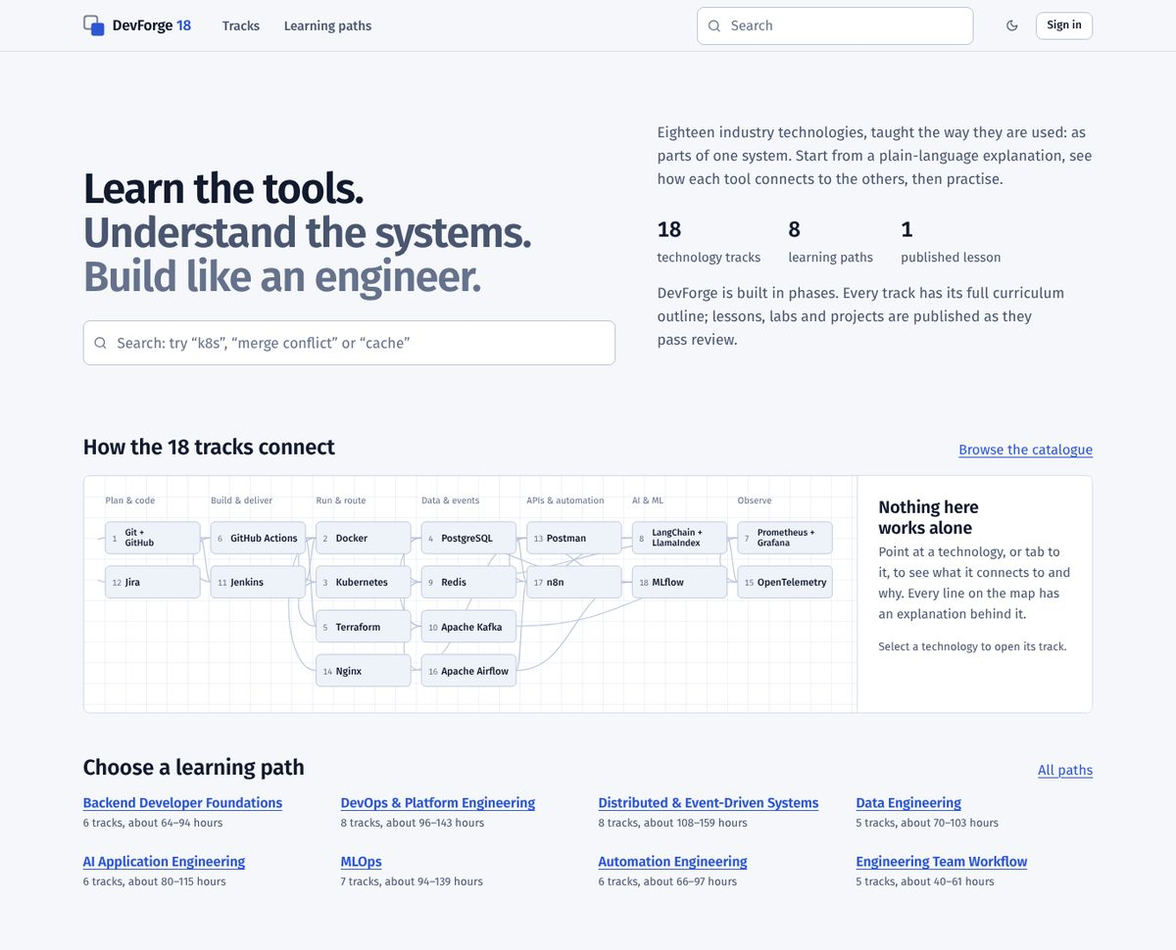
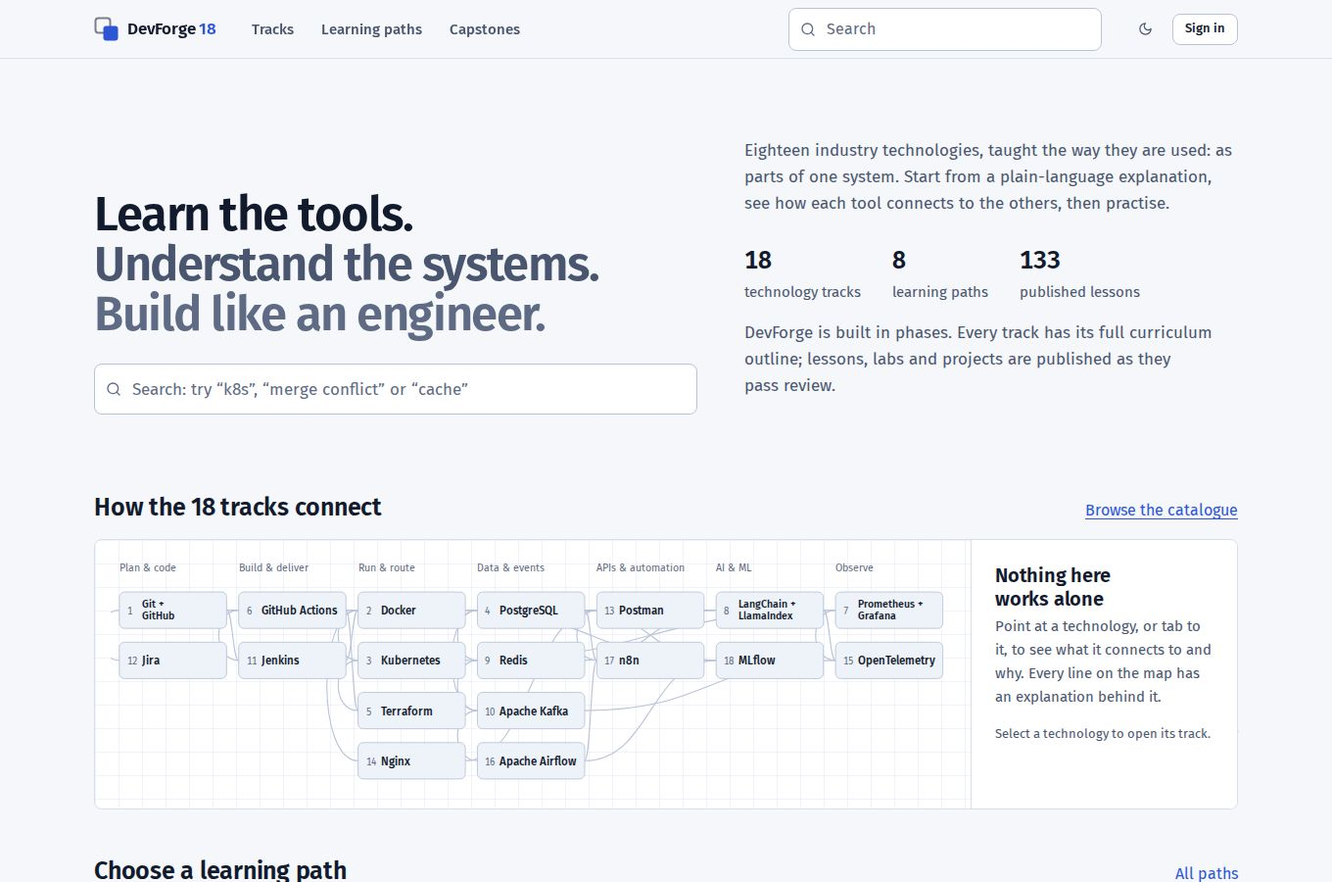
Release checklist: certificate page in the accessibility audit, crawler on the new limits, README/CHANGELOG for v1.0
- e2e: the certificate verification page is audited (34 pages, 68 audits,
  all pass); the harness exposes its database for seeding evidence the way
  the API tests do; the certificate is issued by the real API.
- e2e/internal-links.test.ts raises the two API limits through config
  (apiRateLimits) instead of replacing the limiters.
- README: v1.0 status, features with counts, known limitations (single
  instance, shared networks, editor tested against a fake, screen-reader pass
  pending), refreshed screenshots plus simulation and architecture shots
  (scripts/readme-screenshots.ts).
- CHANGELOG.md with the 1.0.0 entry.
- docs: Orca quick start and two checklist items (cohorts/reviews,
  certificate) in accessibility.md; dead-link crawler in testing.md.

Local: npm test 575 pass / 0 fail (159 Docker-gated skipped), test:e2e 126/126,
test:upgrade 191/191.

diff --git a/e2e/accessibility.test.ts b/e2e/accessibility.test.ts
@@ -66,6 +66,7 @@ const PAGES: AuditedPage[] = [
   { name: "review queue", path: "/reviews", ready: "table", signedIn: "faculty", setup: async (page) => (await teacherWithSubmission(page), "/reviews") },
   { name: "review form with the rubric", path: "/reviews", ready: "fieldset.rubric-row", signedIn: "faculty", setup: (page) => teacherWithSubmission(page).then((r) => `/reviews/submission/${r.submissionId}`) },
   { name: "public portfolio", path: "/", ready: "h1", setup: publicPortfolio },
+  { name: "certificate verification", path: "/", ready: "h1", setup: issuedCertificate },
   { name: "administration", path: "/admin", ready: "table", signedIn: "admin" },
   { name: "content editor", path: "/content-editor", ready: "h1", signedIn: "faculty" },
   { name: "home at phone width, menu open", path: "/", ready: ".map-list", mobile: true, prepare: openMenu },
@@ -136,6 +137,32 @@ async function publicPortfolio(): Promise<string> {
   await s.post("/api/me/portfolio", { isPublic: true, slug, headline: "Learning DevOps" }, "PUT");
   await s.dispose();
   return `/portfolio/${slug}`;
+}
+
+/**
+ * A student earns the Kubernetes certificate; the audit visits its public verification page signed out.
+ * Passing the quiz and verifying both labs through the browser would take minutes, so that evidence is seeded in
+ * the database exactly as server/test/api-institution.test.ts does; the certificate itself is issued by the real API.
+ */
+async function issuedCertificate(): Promise<string> {
+  accounts += 1;
+  const ctx = await playwrightRequest.newContext({ baseURL: h.url, extraHTTPHeaders: { "X-DevForge-CSRF": "1", Origin: h.url } });
+  const reg = await ctx.post("/api/auth/register", { data: { email: `axe-certified-${accounts}@example.com`, displayName: "Certified Learner", password: "correct horse battery staple 42" } });
+  assert.equal(reg.status(), 201);
+  const userId = ((await reg.json()) as { user: { id: string } }).user.id;
+  const status = (await (await ctx.get("/api/me/certificates")).json()) as { tracks: { track: string; labs: { id: string }[] }[] };
+  const k8s = status.tracks.find((t) => t.track === "kubernetes");
+  assert.ok(k8s, "the Kubernetes track offers a certificate");
+  const now = new Date().toISOString();
+  h.db.prepare("INSERT INTO quiz_attempts (user_id, quiz_id, track_slug, score, passed, attempted_at) VALUES (?, 'kubernetes-quiz', 'kubernetes', 0.9, 1, ?)").run(userId, now);
+  for (const lab of k8s.labs) {
+    h.db.prepare("INSERT INTO lab_progress (user_id, lab_id, track_slug, evidence, completed_at) VALUES (?, ?, 'kubernetes', 'verified', ?)").run(userId, lab.id, now);
+  }
+  const issued = await ctx.post("/api/me/certificates/kubernetes");
+  assert.equal(issued.status(), 201, await issued.text());
+  const id = ((await issued.json()) as { certificate: { id: string } }).certificate.id;
+  await ctx.dispose();
+  return `/certificates/${id}`;
 }
 
 /** Waits for the page's own content, not just the app shell: the route's heading and, when given, its data. */

diff --git a/e2e/harness.ts b/e2e/harness.ts
@@ -7,9 +7,8 @@ import type { AppConfig } from "../server/src/config.ts";
 import { ContentStore } from "../server/src/content/store.ts";
 import { hashPassword } from "../server/src/auth/password.ts";
 import { insertUser, type Role } from "../server/src/auth/users.ts";
-import { migrate, openDatabase } from "../server/src/db/database.ts";
+import { migrate, openDatabase, type Db } from "../server/src/db/database.ts";
 import { silentLogger } from "../server/src/observability/logger.ts";
-import type { Limiters } from "../server/src/routes/deps.ts";
 
 const root = join(import.meta.dirname, "..");
 
@@ -19,14 +18,13 @@ export interface Harness {
   newPage: (opts?: { mobile?: boolean; colorScheme?: "light" | "dark" }) => Promise<{ page: Page; context: BrowserContext; problems: string[] }>;
   /** Create an account directly in the database — the only way to get a faculty or admin account, as in production. */
   createUser: (user: { email: string; name: string; password: string; role: Role }) => Promise<void>;
+  /** The in-memory database, for seeding state that only long real flows produce (as the API tests do). */
+  db: Db;
   close: () => Promise<void>;
 }
 
-/**
- * Runs the real server (built frontend + compiled content, in-memory DB) and a headless Chromium.
- * `options.limiters` replaces the production rate limiters, for a test that is deliberately one very busy client.
- */
-export async function startHarness(overrides: Partial<AppConfig> = {}, options: { limiters?: Limiters } = {}): Promise<Harness> {
+/** Runs the real server (built frontend + compiled content, in-memory DB) and a headless Chromium. */
+export async function startHarness(overrides: Partial<AppConfig> = {}): Promise<Harness> {
   // Bind the port first so the app is created with the exact origin the browser will send.
   let app: App | undefined;
   const server = createServer((req, res) => {
@@ -56,7 +54,7 @@ export async function startHarness(overrides: Partial<AppConfig> = {}, options: 
   };
   const db = openDatabase(":memory:");
   migrate(db);
-  app = createApp({ config, db, content: ContentStore.fromFile(config.contentPath), logger: silentLogger, ...(options.limiters ? { limiters: options.limiters } : {}) });
+  app = createApp({ config, db, content: ContentStore.fromFile(config.contentPath), logger: silentLogger });
   const browser = await chromium.launch();
 
   return {
@@ -89,6 +87,7 @@ export async function startHarness(overrides: Partial<AppConfig> = {}, options: 
       });
       return { page, context, problems };
     },
+    db,
     createUser: async ({ email, name, password, role }) => {
       insertUser(db, { email, displayName: name, passwordHash: await hashPassword(password, config.passwordHashLogN), role });
     },

diff --git a/scripts/readme-screenshots.ts b/scripts/readme-screenshots.ts
@@ -1,0 +1,45 @@
+/**
+ * Regenerates the README screenshots in docs/screenshots/ from the built app.
+ *
+ *   npm run build && node --disable-warning=ExperimentalWarning scripts/readme-screenshots.ts
+ *
+ * Uses the e2e harness (in-memory database, a free port, headless Chromium). Each shot waits for the page's own
+ * heading and for the network to go quiet, then for animations to finish, so it shows the final state.
+ */
+import { join } from "node:path";
+import type { Page } from "playwright";
+import { startHarness } from "../e2e/harness.ts";
+
+const out = join(import.meta.dirname, "..", "docs", "screenshots");
+
+const SHOTS: { file: string; path: string; ready: string; colorScheme?: "light" | "dark"; mobile?: boolean; fullPage?: boolean }[] = [
+  { file: "home-dark.jpg", path: "/", ready: "main h1" },
+  { file: "home-light.jpg", path: "/", ready: "main h1", colorScheme: "light" },
+  { file: "track-page.jpg", path: "/tracks/docker", ready: "main h1" },
+  { file: "lesson.jpg", path: "/tracks/docker/lessons/docker-images-vs-containers", ready: "main h1" },
+  { file: "mobile.jpg", path: "/", ready: "main h1", mobile: true },
+  { file: "simulation.jpg", path: "/tracks/kubernetes/simulations/kubernetes-reconciliation", ready: "main h1" },
+  { file: "architecture.jpg", path: "/architecture", ready: "main h1" },
+];
+
+async function settle(page: Page, ready: string): Promise<void> {
+  await page.locator(ready).first().waitFor();
+  await page.waitForLoadState("networkidle");
+  await page.evaluate(() => Promise.all(document.getAnimations().map((a) => a.finished.catch(() => undefined))));
+  if (await page.getByRole("heading", { name: "Page not found" }).count()) throw new Error(`${page.url()} is a not-found page`);
+}
+
+const h = await startHarness();
+try {
+  for (const shot of SHOTS) {
+    const { page, context, problems } = await h.newPage({ colorScheme: shot.colorScheme ?? "dark", mobile: shot.mobile ?? false });
+    await page.goto(shot.path);
+    await settle(page, shot.ready);
+    if (problems.length) throw new Error(`${shot.path}: ${problems.join("; ")}`);
+    await page.screenshot({ path: join(out, shot.file), type: "jpeg", quality: 80, fullPage: shot.fullPage ?? false });
+    console.log(`docs/screenshots/${shot.file}  ${shot.path}`);
+    await context.close();
+  }
+} finally {
+  await h.close();
+}

diff --git a/e2e/internal-links.test.ts b/e2e/internal-links.test.ts
@@ -22,8 +22,6 @@ import { readFileSync } from "node:fs";
 import { join } from "node:path";
 import { after, before, describe, it } from "node:test";
 import type { APIRequestContext, BrowserContext, Page } from "playwright";
-import { defaultLimiters } from "../server/src/app.ts";
-import { FixedWindowLimiter } from "../server/src/http/rate-limit.ts";
 import { startHarness, type Harness } from "./harness.ts";
 
 const PASSWORD = "copper meadow signal 7";
@@ -56,10 +54,11 @@ interface Target {
 
 let h: Harness;
 before(async () => {
-  // The crawler is one client loading ~400 pages (several API calls each) in well under a minute, far past the
-  // per-IP API guard (1200 a minute, ADR 0004), which would turn pages into "Too many requests" error states.
-  // Only that guard is raised; rate limiting has its own tests.
-  h = await startHarness({}, { limiters: { ...defaultLimiters(), api: new FixedWindowLimiter(1_000_000, 60_000) } });
+  // The crawler is one signed-in client loading ~400 pages (several API calls each) in well under a minute, far
+  // past the API limits per user (600 a minute) and per address (6,000), which would turn pages into "Too many
+  // requests" error states. Only those two limits are raised; sign-in limits keep their production values, and
+  // rate limiting has its own tests (server/test/rate-limits.test.ts).
+  h = await startHarness({ apiRateLimits: { perIpPerMinute: 1_000_000, perUserPerMinute: 1_000_000 } });
 });
 after(() => h.close());
 

diff --git a/README.md b/README.md
@@ -4,13 +4,19 @@
 
 DevForge 18 is an interactive developer engineering academy. It teaches 18 industry technology tracks — from Git and Docker to Kafka, OpenTelemetry and MLflow — the way they are actually used: as parts of one system. Every track starts with a plain-language explanation, shows where the tool sits in an architecture and how it connects to the others, and leads into lessons with graded self-checks, labs and projects.
 
-> **Project status: Phase 1 in progress.** The platform, all 18 track curricula and 8 learning paths are in place, and 80 lessons are published across all 18 tracks — beginner lessons in every track, and intermediate and advanced lessons for the Path 1 tracks (Learning Paths 1 and 2 — Git, PostgreSQL, Postman, Redis, Nginx, Docker, GitHub Actions, Jenkins, Terraform, Kubernetes, Prometheus + Grafana, OpenTelemetry — plus Kafka, Airflow, MLflow, LangChain + LlamaIndex, n8n and Jira). Every command in every published lesson is run by the test suite against the real tool, and CI confirms the output matches; the two Jira lessons about the hosted Jira service are checked against Atlassian's documentation instead, and say so. Every track has two labs; projects and further intermediate and advanced lessons are still being written, and the app labels everything that is planned rather than available. See [`IMPLEMENTATION_STATUS.md`](IMPLEMENTATION_STATUS.md) for exactly what works today.
+> **Project status: v1.0.** All 18 tracks are complete: 133 lessons (beginner to advanced), 18 simulations, 37 labs, 18 quizzes, 54 mini-projects, 7 capstones, 17 integrations between tracks and 10 reference architectures, plus cohorts, reviews, portfolios and certificates for colleges. Every command in 131 of the 133 lessons is run by the test suite against the real tool and CI confirms the output; the two lessons about the hosted Jira service are checked against Atlassian's documentation instead, and say so. Simulations are labelled as simulations. See [`IMPLEMENTATION_STATUS.md`](IMPLEMENTATION_STATUS.md) for the evidence and [`CHANGELOG.md`](CHANGELOG.md) for the release notes.
 
 ![DevForge 18 home page with the interactive system map](docs/screenshots/home-dark.jpg)
 
 | Track page | Lesson reader | Mobile |
 |---|---|---|
 | ![Docker track page](docs/screenshots/track-page.jpg) | ![Lesson with objectives](docs/screenshots/lesson.jpg) | ![Mobile home](docs/screenshots/mobile.jpg) |
+
+| Simulation (labelled as one) | Architecture studio |
+|---|---|
+| ![Kubernetes reconciliation loop simulation](docs/screenshots/simulation.jpg) | ![Reference architectures](docs/screenshots/architecture.jpg) |
+
+Screenshots are regenerated from the built app with `node --disable-warning=ExperimentalWarning scripts/readme-screenshots.ts` (last run 2026-11-28).
 
 ## Contents
 
@@ -33,18 +39,21 @@ DevForge 18 is an interactive developer engineering academy. It teaches 18 indus
 | Feature | Status |
 |---|---|
 | Browse all 18 tracks: explanation, problem solved, what it is *not*, architecture position, curriculum by level, labs, projects, official resources | Working |
-| Interactive system map showing how the tracks connect, with an explanation behind every connection | Working |
+| Interactive system map showing how the tracks connect, with an explanation behind every connection; a relationship graph and 17 integration pages (how two tools work together, with practice items) | Working |
 | 8 learning paths with ordered modules, prerequisites, alternate routes and time estimates | Working |
 | Search across tracks, curriculum topics, lessons and paths, with typo tolerance and abbreviations (`k8s`, `pg`, `otel`) | Working |
-| Lesson reader with objectives, table of contents, copyable code blocks, expected output and a server-graded self-check | Working (80 lessons; their commands are run by the test suite and in CI) |
-| Figures in every lesson, and step-through diagrams (Previous/Next, arrow keys, Play) for processes in every track with lessons; both themes, reduced motion respected | Working (81 figures, 22 of them step-throughs) |
-| Interactive simulations with challenges, verified by the server and saved to progress: Git commit graph, Kubernetes reconciliation loop, Prometheus scrape and rate, OpenTelemetry trace waterfall, Kafka consumer groups, Airflow scheduler timeline, MLflow experiment explorer, a RAG pipeline, an n8n workflow executor, a Jira sprint board, Docker's layer cache, PostgreSQL's query planner, Terraform's plan diff, a GitHub Actions run visualiser, a Redis cache under load, Nginx's location matcher, a Postman-style request builder, a Jenkins build queue | Working (all 18 tracks) |
-| Accounts, sign-in, progress tracking (a lesson completes only when its self-check is passed), bookmarks, dashboard | Working |
-| Roles (student, faculty, admin), admin user management with an audit log, faculty aggregate statistics | API working; admin/faculty screens not built yet |
-| Dark and light themes, keyboard navigation, mobile layout | Working |
+| Lesson reader with objectives, table of contents, copyable code blocks, expected output and a server-graded self-check | Working (133 lessons: 54 beginner, 42 intermediate, 37 advanced; 131 executed in CI, 2 Jira lessons checked against documentation) |
+| Figures in every lesson, and step-through diagrams (Previous/Next, arrow keys, Play); both themes, reduced motion respected | Working (134 figures in 133 lessons, 22 lessons with step-throughs) |
+| Interactive simulations with challenges, verified by the server and saved to progress, one per track, each labelled as a simulation and saying what it simplifies | Working (18) |
+| Labs: local labs with a check script, simulation labs with server-verified challenges, and a read-through lab graded on the server; progress records whether completion was checked or self-reported | Working (37) |
+| Quizzes: one per track mixing all levels, six question types, graded on the server (answers never sent before grading), attempts saved | Working (18 quizzes, 230 questions) |
+| Mini-projects with user stories, acceptance criteria, rubric, starter files, progressive hints and a faculty-only solution; an acceptance check that fails on the starter and passes on the solution, run in CI | Working (54, three per track) |
+| Capstones and the architecture studio: 7 capstones (A–G) and 10 reference architectures where learners write decision records | Working |
 | Who uses each tool and why: two sourced case studies per track, every claim with a verbatim quote, its source and the date checked; alternatives with when to choose them and their licences | Working (36 case studies, 89 alternatives) |
-| Labs: two per track — local labs with a check script, simulation labs with server-verified challenges, and a read-through lab graded on the server; progress records whether completion was checked or self-reported | Working (36 labs) |
-| Capstone projects, quizzes, architecture studio, cohorts | Planned (see roadmap) |
+| Accounts, sign-in, progress tracking (a lesson completes only when its self-check is passed), bookmarks, dashboard | Working |
+| For colleges: cohorts with join codes, assignments with due dates, submissions reviewed against rubrics, opt-in public portfolios, certificates anyone can verify, data export and account deletion | Working |
+| Roles (student, faculty, admin), admin screens (roles, disable/enable, audit log), and a content editor for faculty that opens GitHub pull requests | Working (the editor has been tested against a fake GitHub API only; see [Known limitations](#known-limitations)) |
+| Dark and light themes, keyboard navigation, mobile layout; automated accessibility audit of every page type | Working (68 audits; a manual screen-reader pass is pending) |
 
 ## The 18 tracks
 
@@ -234,10 +243,12 @@ Found a vulnerability? Please report it privately to the maintainers rather than
 
 ## Known limitations
 
-- 133 lessons are published (131 executed in CI, 2 docs-checked Jira lessons), 37 labs, a simulation and a quiz in every track, 54 mini-projects with executable acceptance checks, capstones A–G, 17 integrations and 10 reference architectures.
-- External resource links were all checked and reviewed on 2026-11-25. The weekly *Link check* workflow reports reachability; a person re-confirms each page before its date is updated.
-- Admin screens (users, roles, disabling accounts, audit log), faculty screens (cohorts, assignments, reviews against rubrics) and the content editor exist. The content editor has been tested only against a local fake of the GitHub API (see [ADR 0011](docs/adr/0011-cms-pull-requests.md)); try one pull request on a scratch repository first.
-- Rate limits are kept in memory, so they apply per server process, unless `REDIS_URL` points to a shared Redis. See [ADR 0004](docs/adr/0004-auth-sessions.md) and [ADR 0010](docs/adr/0010-shared-rate-limits-redis.md).
+- **One app instance.** v1.0 stores everything in one SQLite file and must run as a single app process ([ADR 0002](docs/adr/0002-database.md), [deployment guide](docs/deployment.md#database-one-app-instance)). Scale it up, not out; one process handled about 300 concurrent active users in the load test before latency rose.
+- **Shared networks.** API requests are limited to 6,000 a minute per address and 600 per signed-in user by default, which fits about 60 students behind one NAT address; raise the per-address limit for larger groups ([sizing guidance](docs/deployment.md#rate-limits)).
+- **Content editor:** tested against a local fake of the GitHub API only ([ADR 0011](docs/adr/0011-cms-pull-requests.md)); try one pull request on a scratch repository before real use.
+- **Screen readers:** the automated accessibility audit covers every page type, but the manual screen-reader pass ([checklist](docs/accessibility.md#manual-screen-reader-pass-to-do-owner)) is still pending.
+- **External links** are checked weekly by the *Link check* workflow; four sites refuse automated checks and were confirmed by hand (`content/link-check-exceptions.yaml`, re-check every 90 days).
+- Jira lessons cannot run commands against the hosted service; they are checked against Atlassian's documentation and taught with a labelled simulation.
 - The full list, with workarounds, is in [`IMPLEMENTATION_STATUS.md`](IMPLEMENTATION_STATUS.md#known-issues-and-limitations).
 
 ## Licence

diff --git a/CHANGELOG.md b/CHANGELOG.md
@@ -1,0 +1,42 @@
+# Changelog
+
+All notable changes to DevForge 18. Dates are UTC. The project follows [Semantic Versioning](https://semver.org/); the content (`content/`) is versioned per item with `content_version`.
+
+## [1.0.0] — 2026-11-28
+
+The first release: all 18 tracks complete, with college features. Evidence for every item below is in [`IMPLEMENTATION_STATUS.md`](IMPLEMENTATION_STATUS.md) (section "v1.0 release checklist").
+
+### Learning content
+
+- **18 tracks** (Git and GitHub, Docker, Kubernetes, PostgreSQL, Terraform, GitHub Actions, Prometheus and Grafana, LangChain and LlamaIndex, Redis, Apache Kafka, Jenkins, Jira, Postman, Nginx, OpenTelemetry, Apache Airflow, n8n, MLflow), each with a plain-language explanation, its place in a system architecture, a curriculum by level and official resources.
+- **133 lessons** (54 beginner, 42 intermediate, 37 advanced) with objectives, figures, expected output and a server-graded self-check. The commands in 131 lessons are run against the real tools by the test suite and in CI, and their output is compared; the 2 lessons about the hosted Jira service are checked against Atlassian's documentation and say so.
+- **134 figures**, 22 lessons with step-through diagrams.
+- **18 simulations**, one per track, with challenges verified by replaying the learner's actions on the server; each is labelled as a simulation and states what it simplifies.
+- **37 labs**: local labs with check scripts, simulation labs and a read-through lab graded on the server.
+- **18 quizzes** (230 questions, six question types) graded on the server.
+- **54 mini-projects** with stories, acceptance criteria, rubrics, starter files, hints and a faculty-only solution; every acceptance check fails on the starter and passes on the solution in CI.
+- **7 capstones** (A–G), **17 integrations** between tracks, **10 reference architectures** with learner decision records.
+- **36 case studies** (every claim with a verbatim quote, its source and the date checked) and **89 alternatives** with licences.
+- **8 learning paths**, search with typo tolerance, an interactive system map and a relationship graph.
+
+### Platform
+
+- Accounts and sessions (scrypt, hashed session tokens, CSRF defence), roles (student, faculty, admin), progress, bookmarks, dashboard.
+- **For colleges:** cohorts with join codes, assignments with due dates, submissions reviewed against rubrics, opt-in public portfolios, certificates that anyone can verify, data export and account deletion.
+- **Admin screens** (roles, disable/enable, audit log) and a **content editor** for faculty that opens GitHub pull requests.
+- **Rate limits for shared networks:** per signed-in user (600 requests a minute, the main abuse guard) and per address (6,000 a minute, sized for a classroom behind NAT), both configurable; optional shared counters in Redis.
+- OpenTelemetry tracing of DevForge itself (optional), Prometheus metrics, structured logs.
+- Docker Compose deployment behind Nginx, read-only containers, images pinned by digest; backups with an integrity check.
+- Dark and light themes, keyboard navigation, mobile layout, reduced motion; a strict Content Security Policy unchanged since the first commit.
+
+### Verification
+
+- Unit, API and browser tests; an automated accessibility audit (axe) of every page type in both colour schemes; a crawler that fails on any dead internal link; an upgrade test from two older versions and a backup-and-restore test; a Compose and Nginx smoke test; a k6 load test (nightly).
+- An authorization review of every endpoint added since the first version, with tests that another user cannot read or change someone else's data ([docs/security.md](docs/security.md#endpoint-authorization-review-v10-2026-11-28)).
+
+### Known limitations
+
+- One app instance per database (SQLite); needing more than one app server is the trigger for the PostgreSQL adapter ([ADR 0002](docs/adr/0002-database.md)).
+- The content editor has been tested against a local fake of the GitHub API only.
+- The manual screen-reader pass has not been done yet.
+- See [README, "Known limitations"](README.md#known-limitations).

diff --git a/docs/accessibility.md b/docs/accessibility.md
@@ -9,7 +9,7 @@ DevForge 18 aims for WCAG 2.1 level AA. This page records what is tested automat
 - **Rules:** every axe rule tagged `wcag2a`, `wcag2aa`, `wcag21a` or `wcag21aa`. No rule is disabled and no element is excluded; any future exclusion must be added to `EXCLUSIONS` in the test with its reason, and listed here.
 - **Colour schemes:** every page is audited twice, in the dark scheme (the default) and the light scheme (`prefers-color-scheme: light`); the test also checks that the page really switched (`<html data-theme>`).
 - **When:** after the page's own data has loaded (its heading and a page-specific element are visible, the network is idle, and entrance animations have finished, so contrast is measured on final colours).
-- **Pages (33, so 66 audits):**
+- **Pages (34, so 68 audits):**
 
 | Page | URL |
 |---|---|
@@ -37,8 +37,7 @@ DevForge 18 aims for WCAG 2.1 level AA. This page records what is tested automat
 | Public portfolio | `/portfolio/:slug` |
 | Administration (admin) | `/admin` |
 | Content editor (faculty) | `/content-editor` |
-
-Not audited automatically yet: the certificate verification page (`/certificates/:id`) — creating one needs a learner who passed a quiz and verified labs through the real flows; its content is covered by API tests and it uses the same notice, heading and list components as the audited pages. Include it in the manual pass.
+| Certificate verification (signed out; the certificate is issued by the real API after the quiz and lab evidence is seeded, as in the API tests) | `/certificates/:id` |
 
 ### Results
 
@@ -65,7 +64,15 @@ Automated tools find only part of the WCAG failures: they cannot judge whether a
 
 **Not done yet.** This audit was automated only; nobody has used DevForge with a screen reader. Do it before institution-wide use, record the date, the screen reader and browser versions, and any problems found (as issues), here.
 
-Suggested setups: NVDA with Firefox or Chrome on Windows; VoiceOver with Safari on macOS and on iOS; TalkBack with Chrome on Android. Test in both colour schemes and at 200 % and 400 % zoom.
+Suggested setups: Orca with Firefox on Linux (the owner's setup; steps below); NVDA with Firefox or Chrome on Windows; VoiceOver with Safari on macOS and on iOS; TalkBack with Chrome on Android. Test in both colour schemes and at 200 % and 400 % zoom.
+
+### Orca on Linux, quick start
+
+1. Orca is installed on most GNOME-based desktops (`orca --version`; otherwise `sudo apt install orca`). Run `orca -s` once and choose the **Laptop** keyboard layout: the Orca key is then **Caps Lock** (Desktop layout: **Insert**).
+2. Start it with `orca &` (GNOME: Super+Alt+S toggles it); stop it with `pkill orca`.
+3. Start DevForge (`npm run build && npm start`, or on another port with `PORT` and `PUBLIC_ORIGIN`) and open it in Firefox.
+4. Keys (from the Orca help, checked 2026-11-28): Orca+H learn mode (Esc leaves); Tab/Shift+Tab controls; H/Shift+H headings, 1–6 a heading level, Alt+Shift+H list of headings; M landmarks (Alt+Shift+M list); K links (Alt+Shift+K list); F form fields; B buttons; T tables; Orca+A switches browse mode and focus mode; Say All is Orca+; (Laptop) or KP Plus (Desktop). The help pages do not list a key to stop speech; Ctrl usually stops it.
+5. For each item below write ✅ or ❌ with one line on what was announced, and record the Orca and Firefox versions and the date here.
 
 ### Checklist
 
@@ -92,6 +99,8 @@ Pages
 - [ ] Search: results count and results are announced after typing.
 - [ ] Sign-in and registration: every field is labelled; errors are announced and linked to their field; the password rules are read before submitting.
 - [ ] Dashboard: progress figures are announced as text, not only as bars.
+- [ ] Cohorts and reviews: the join-code field is labelled; the cohort's learner table has headers; each rubric criterion is a group whose options are announced with their level.
+- [ ] Certificate page: the holder, track, issue date and status (valid or revoked) are read in order; the criteria list makes sense without the visual layout.
 
 ## Keeping it accessible
 

diff --git a/docs/testing.md b/docs/testing.md
@@ -15,7 +15,8 @@
 | Shared rate limits | `server/test/rate-limit-redis.test.ts` | `npm test` | RESP client (fake TCP server: AUTH/SELECT, errors, timeouts), fail-open decision logic; against a real Redis: atomic counting under concurrency, expiry, two DevForge instances enforcing one limit, and an outage (fallback, metrics, recovery). Redis comes from `DEVFORGE_TEST_REDIS_URL` (CI's verify job), a Redis 7.4 container (`DEVFORGE_DOCKER_TEST=1`) or a local `redis-server`; otherwise skipped with the reason |
 | Deployment | `scripts/compose-smoke.sh` | `npm run test:compose` (CI job *Docker Compose and Nginx smoke test*) | The production image builds from the lockfile, Compose starts (read-only, no-new-privileges, only Nginx published) and, through Nginx: health, SPA route with the strict CSP and security headers, 18 tracks, CSRF rejections, immutable caching and gzip of hashed assets, hidden `/metrics`, sign-up, `user:create` and `db:backup` in the container, restart keeps data, 429 at the edge rate limit |
 | Upgrade, backup and restore | `scripts/upgrade-test.sh` | `npm run test:upgrade` (CI job *Upgrade, backup and restore*) | Following [deployment](deployment.md) "Upgrades" and "Backups and restore": databases created through the API of older versions (`eeac236`, Milestone 8; `21ad03b`, Phase 0, extracted with `git archive`) keep every row through the current `db:migrate` (or migration at start-up); the same users sign in with the same passwords (old sessions stay valid) and see identical progress, bookmarks, quiz attempts, labs and simulation challenges; certificates, cohorts, assignments and data export work on the old data; `db:backup` while the server runs, then a restore, brings back exactly the backup's state; restoring the pre-upgrade backup runs the old version again. `UPGRADE_FROM=<commits>` picks the versions, `KEEP=1` keeps the databases and logs |
-| Accessibility | `e2e/accessibility.test.ts` | `npm run test:e2e` | axe-core (WCAG 2.0/2.1 A and AA rules) finds no violation on 33 main pages, desktop and phone width, in both colour schemes; no rule disabled. See [accessibility](accessibility.md), which also holds the manual screen-reader checklist |
+| Dead internal links | `e2e/internal-links.test.ts` | `npm run test:e2e` | Crawls every track, lesson, lab, simulation, quiz, project, capstone, architecture, path and integration page (seeded from the API and checked against `build/content.json`), plus the listing pages, dashboard, cohorts, reviews, portfolio, admin and content editor as a student, a teacher and an admin with real coursework data; every same-origin link must load a real page (an `<h1>` that is not "Page not found", no error state, no script error), every `#fragment` must match an element id on its target, and `/api` or file links must return 200. Fails listing each dead link and the pages that link to it. Links that appear only after an action (quiz feedback) are not crawled |
+| Accessibility | `e2e/accessibility.test.ts` | `npm run test:e2e` | axe-core (WCAG 2.0/2.1 A and AA rules) finds no violation on 34 main pages, desktop and phone width, in both colour schemes; no rule disabled. See [accessibility](accessibility.md), which also holds the manual screen-reader checklist |
 | Load | `load/api.js` | `npm run test:load` (needs k6; CI nightly and manual runs) | Under concurrent anonymous browsing, signed-in lesson checks and a stream of sign-ins, the production server keeps errors under 1 % and p95 latency within the thresholds; measured results in [load testing](load-testing.md) |
 | Browser | `e2e/journeys.test.ts` | `npm run test:e2e` | Production build in headless Chromium: discovery, full learning journey, accessibility basics, theming, mobile, step-through diagrams (buttons, arrow keys, focus, Play/Pause, reduced motion, light theme, phone width), simulations (keyboard-only challenge saved through the server, Step, text mode, reduced motion, lesson embeds, track-page links) |
 
